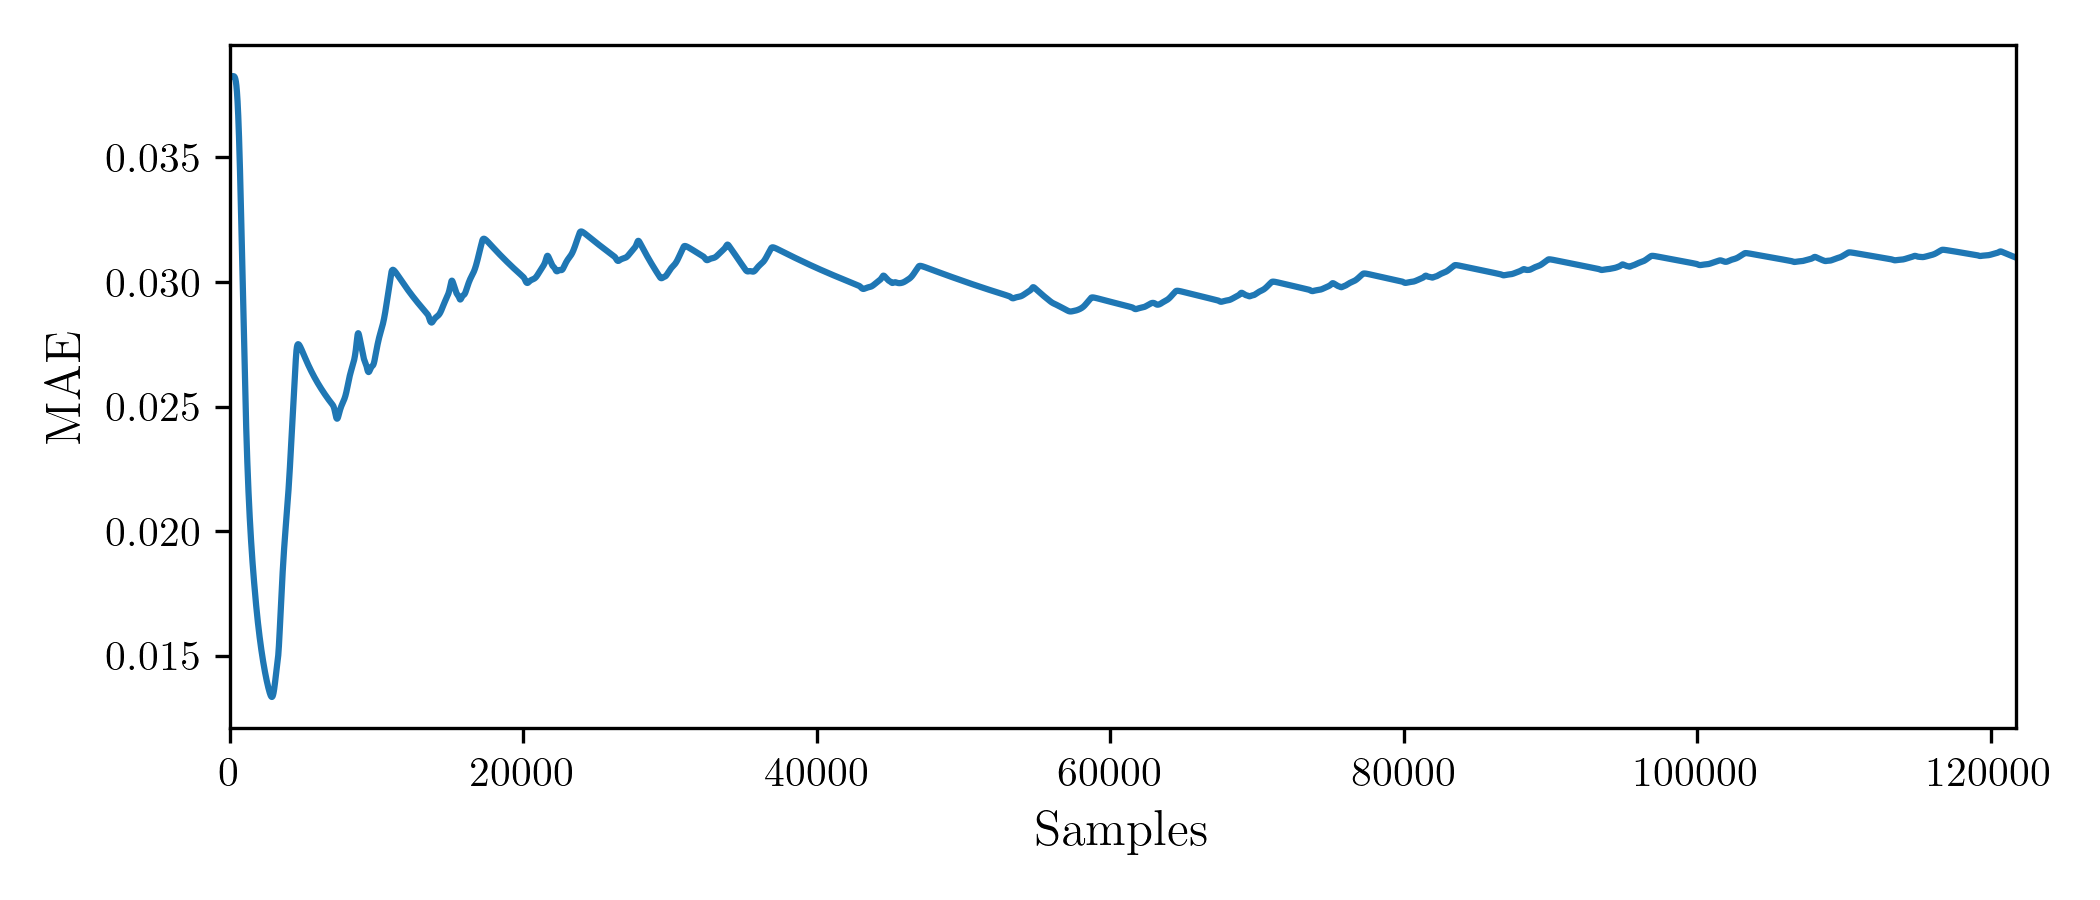
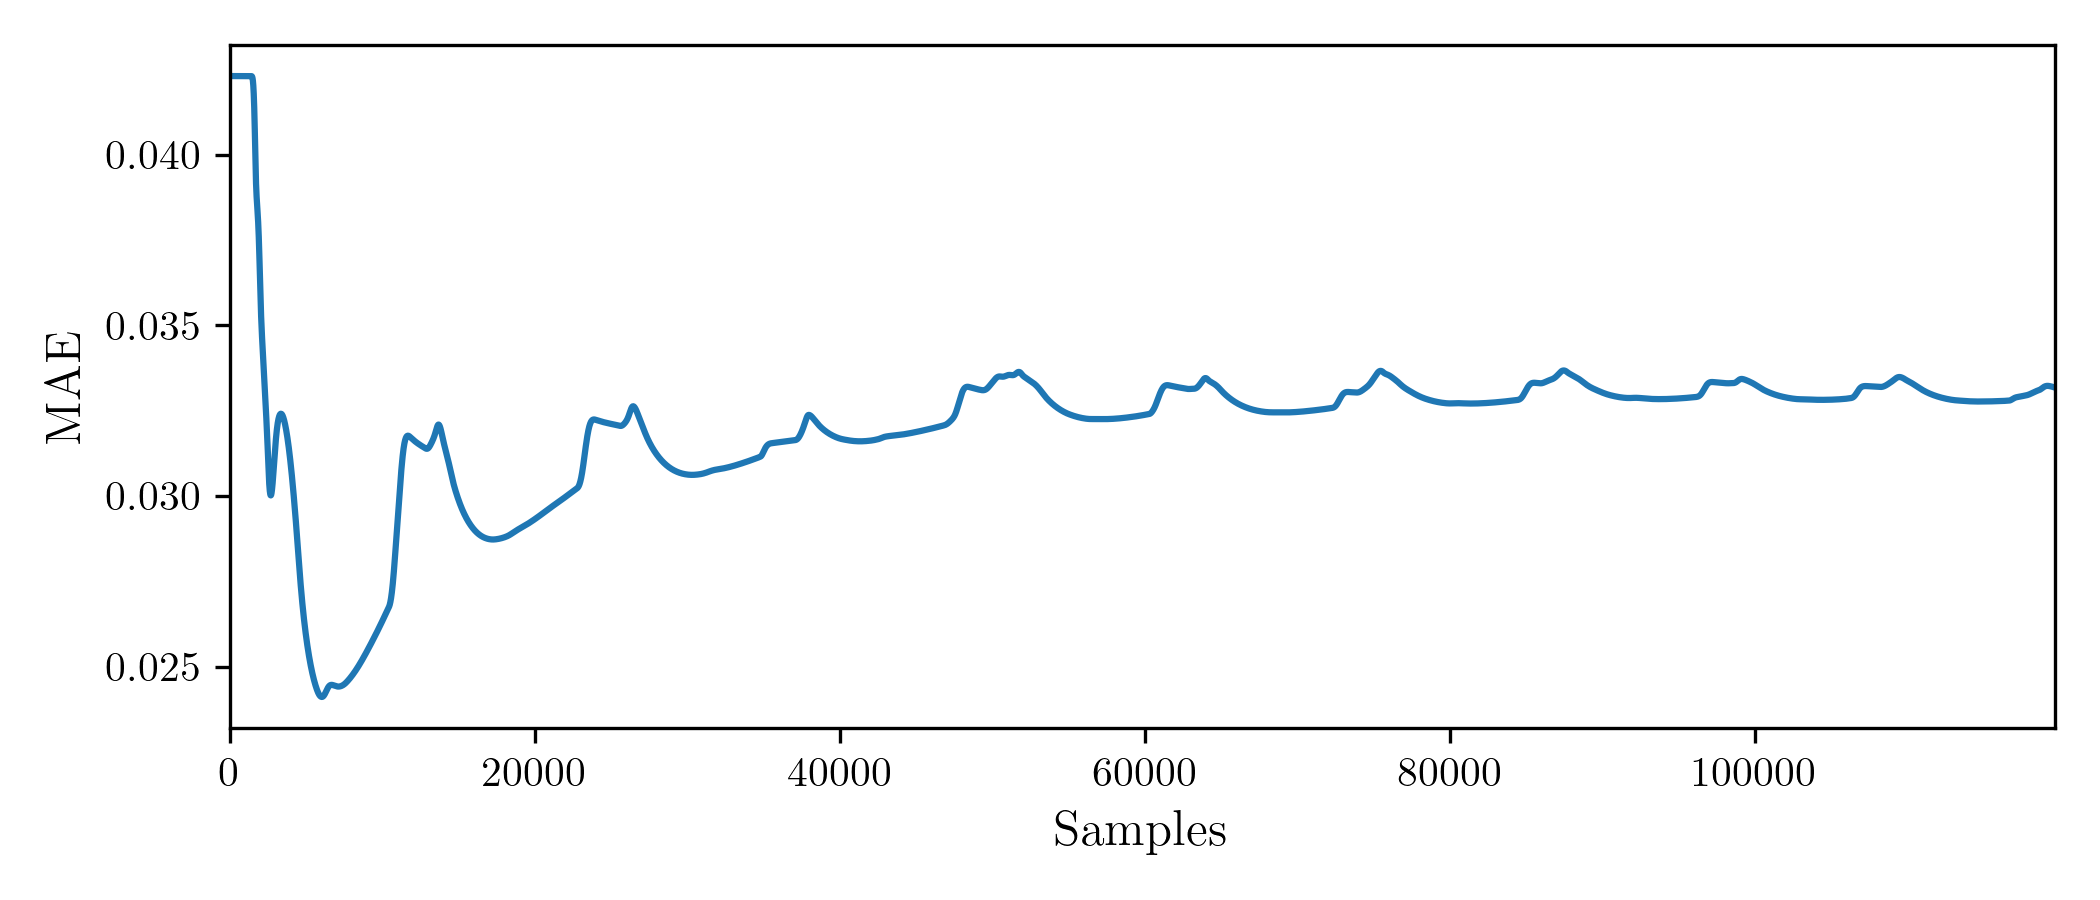
ESN

diff --git a/AdaptiveEmbodiedControlSystems/ESNRealDataTrain.py b/AdaptiveEmbodiedControlSystems/ESNRealDataTrain.py
@@ -30,10 +30,18 @@ mpl.rcParams.update({
 
 import ESN  # 你的ESN模块
 
-TRAIN_CSV = "Outputs/RecordedEMG/TrainLSTM.csv"
-TEST_CSV = "Outputs/RecordedEMG/TestLSTM.csv"
+TRAIN_CSV = "Outputs/RecordedEMG/Optim2/TrainLSTM.csv"
+TEST_CSV = "Outputs/RecordedEMG/Optim2/TestLSTM.csv"
 #COL = 'Processed EMG'  # 'Position'
 COL = 'emg_pos'
+
+# PREDICT_X = 40 #20ms
+# PREDICT_X = 60 #30ms
+PREDICT_X = 80 #40ms
+
+TRAIN = True
+
+Model_Save_Path = "Outputs/models/ESN/Windowed_ESN_80.pth"
 
 class CSVWindowedDataset(Dataset):
     def __init__(self, csv_file, seq_len):
@@ -45,9 +53,9 @@ class CSVWindowedDataset(Dataset):
         X_list = []
         y_list = []
         
-        for i in range(len(data) - seq_len - 40):
+        for i in range(len(data) - seq_len - PREDICT_X):
             window = data[i : i + seq_len]        # (seq_len,)
-            target = data[i + seq_len + 40]            # scalar
+            target = data[i + seq_len + PREDICT_X]            # scalar
             X_list.append(window[:, None])  # (seq_len, 1)
             y_list.append([target])          # (1,)
         self.X = torch.from_numpy(np.stack(X_list, axis=0))  # (N, seq_len, 1), float32
@@ -260,7 +268,7 @@ def evaluate_windowed_esn(model, seq_len, device="cpu", total_points=1000):
     T = signal.shape[0]
 
     X_list = []
-    for i in range(T - seq_len - 40):
+    for i in range(T - seq_len - PREDICT_X):
         window = signal[i : i+seq_len]
         X_list.append(window.unsqueeze(0))
 
@@ -284,8 +292,7 @@ def evaluate_windowed_esn(model, seq_len, device="cpu", total_points=1000):
     preds = torch.cat(preds_list, dim=0)
     y_pred = preds.squeeze(-1).cpu().numpy()
 
-    horizon = 40
-    target_indices = torch.arange(seq_len + horizon, seq_len + horizon + len(y_pred))
+    target_indices = torch.arange(seq_len + PREDICT_X, seq_len + PREDICT_X + len(y_pred))
     y_true = signal[target_indices, 0].cpu().numpy()
     t_pred = t_axis[target_indices].cpu().numpy()
 
@@ -353,10 +360,6 @@ def compute_metrics(y_true, y_pred):
     r2 = 1 - np.sum((y_true - y_pred) ** 2) / denom if denom != 0 else np.nan
 
     return mae, mse, rmse, r2
-
-TRAIN = False
-
-Model_Save_Path = "Outputs/models/ESN/Windowed_ESN.pth"
 
 if __name__ == "__main__":
     if TRAIN:

diff --git a/AdaptiveEmbodiedControlSystems/LSTMRealDataTrain.py b/AdaptiveEmbodiedControlSystems/LSTMRealDataTrain.py
@@ -33,13 +33,13 @@ TRAIN_CSV = "Outputs/RecordedEMG/Optim2/TrainLSTM.csv"
 TEST_CSV = "Outputs/RecordedEMG/Optim2/TestLSTM.csv"
 COL = 'emg_pos'#'Processed EMG'#'Muscle Activation'
 
-# PREDICT_X = 40 #20ms
+PREDICT_X = 40 #20ms
 # PREDICT_X = 60 #30ms
-PREDICT_X = 80 #40ms
+# PREDICT_X = 80 #40ms
 
-Model_Save_Path = "Outputs/models/LSTM/Windowed_LSTM_80.pth"
+Model_Save_Path = "Outputs/models/LSTM/Windowed_LSTM_40.pth"
 # TRAIN = False
-TRAIN = True
+TRAIN = False
 
 class CSVWindowedDataset(Dataset):
     def __init__(self, csv_file, seq_len):
